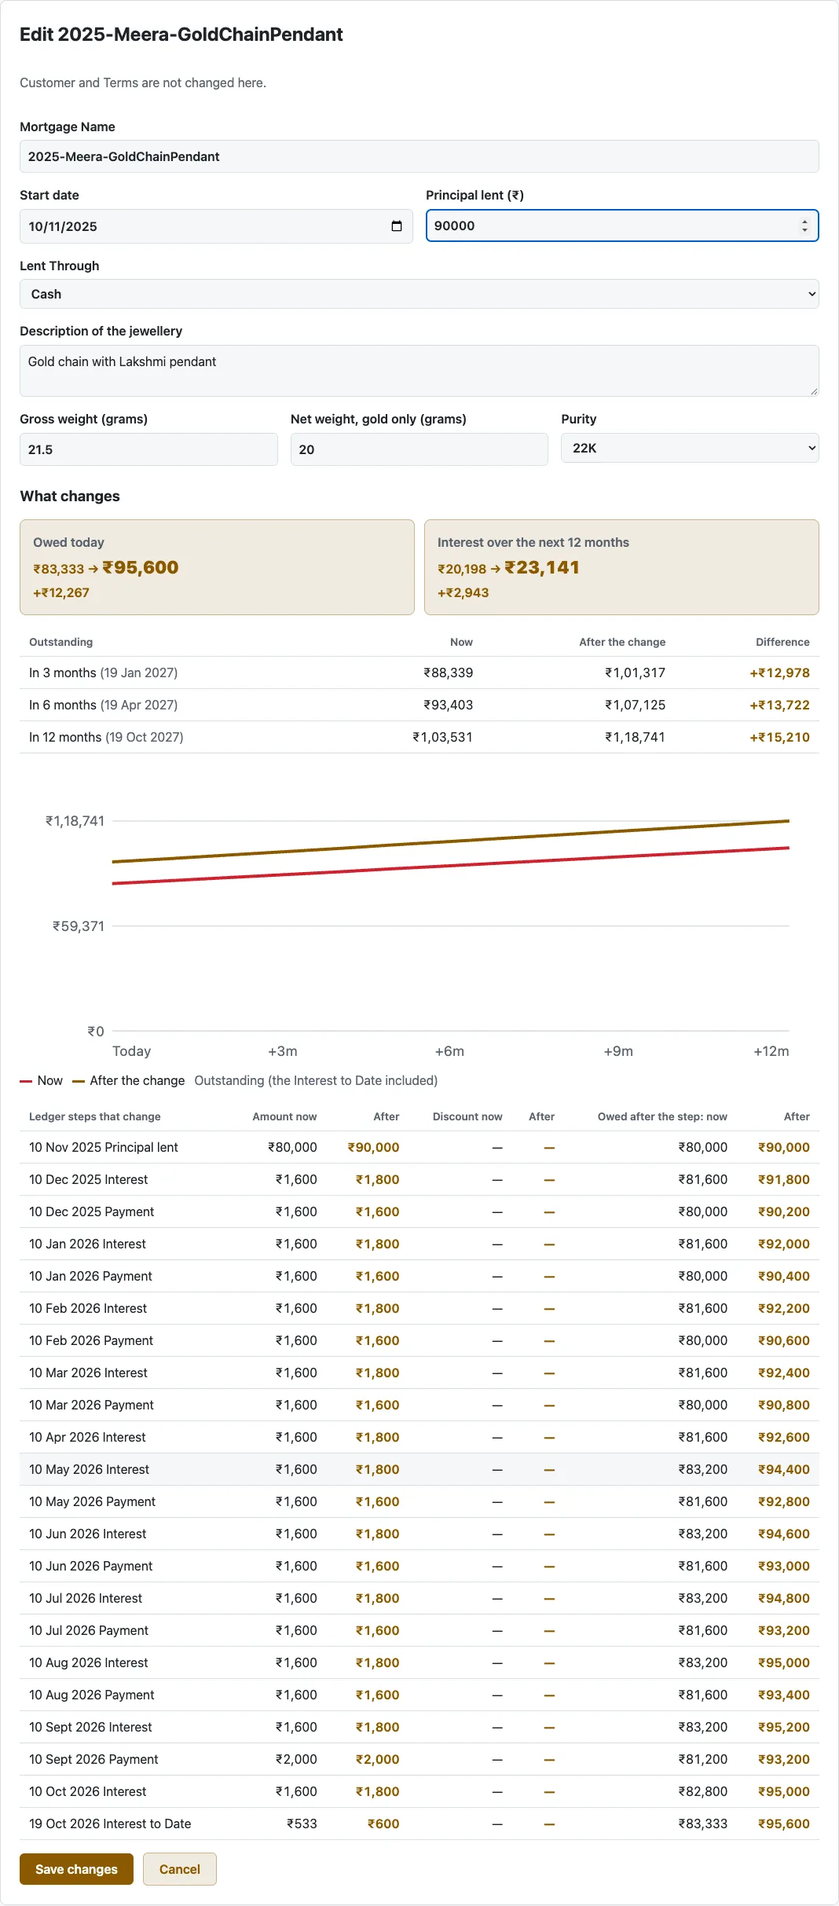
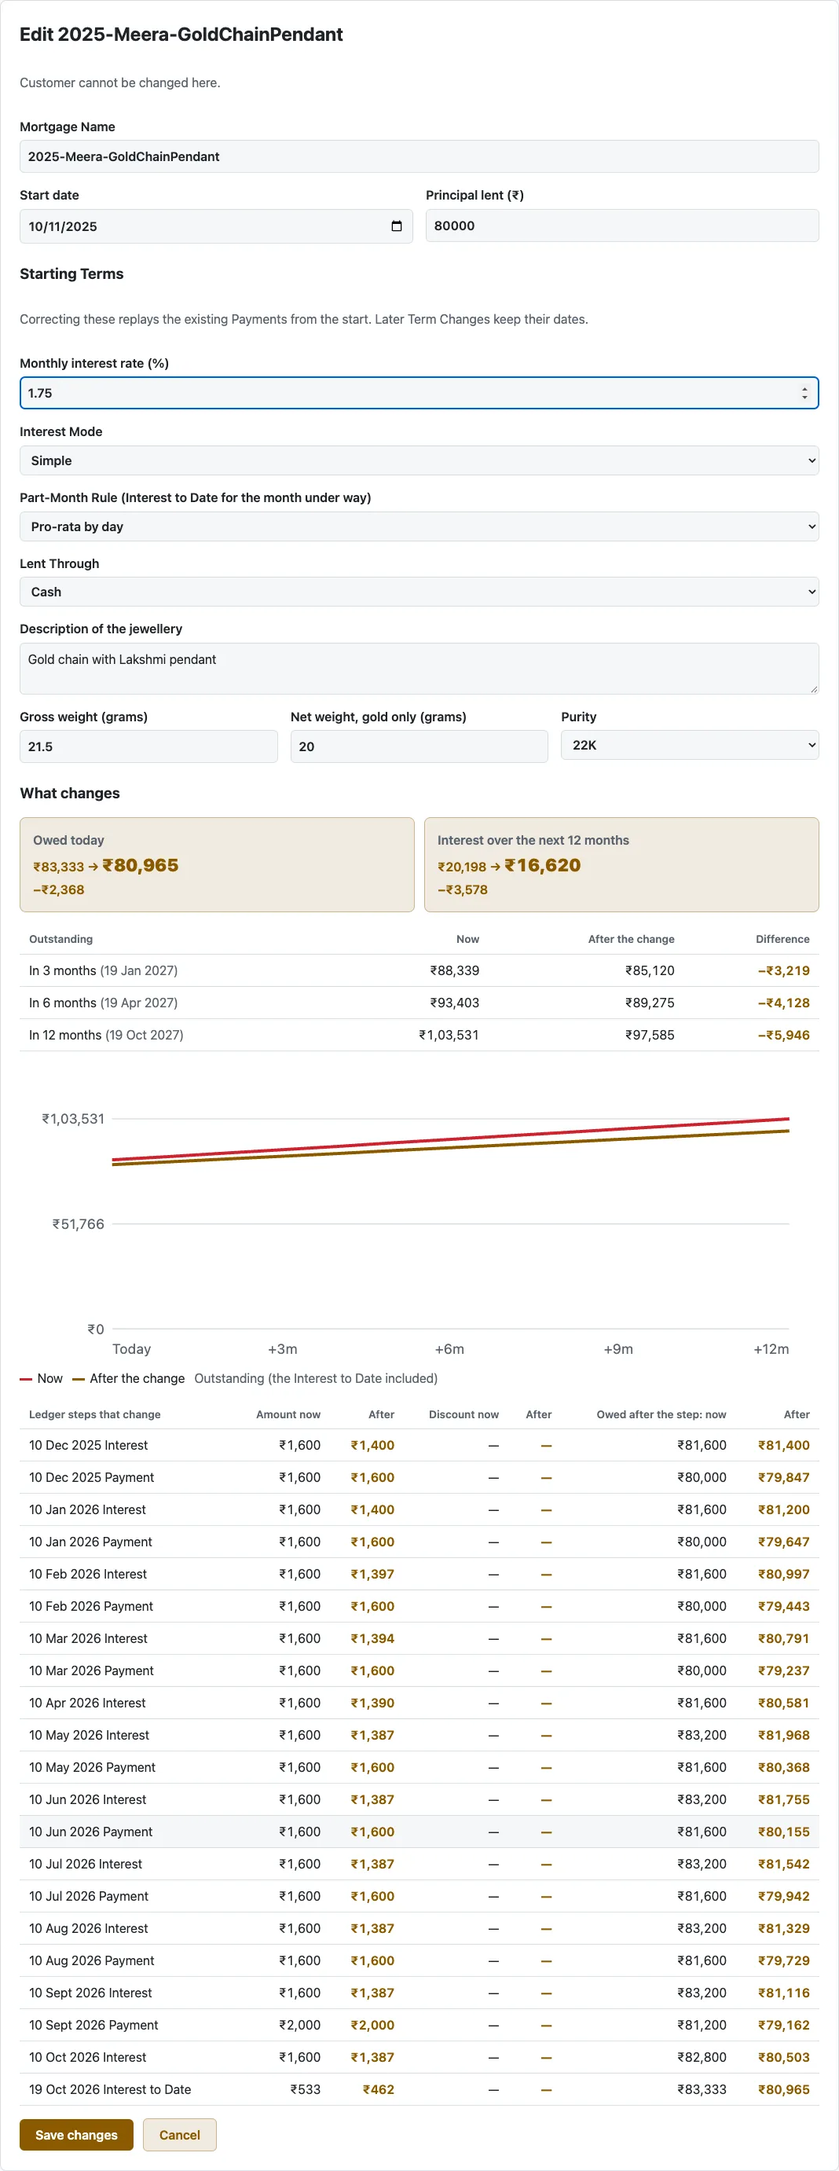
docs: explain correcting starting mortgage terms

diff --git a/docs/story.html b/docs/story.html
@@ -426,13 +426,13 @@ footer { margin-top: 3rem; font-size: 0.82rem; color: var(--muted); display: gri
 <section class="chapter" id="second" aria-labelledby="second-h">
   <div class="chapter-head"><div class="eyebrow">Chapter 5</div><h2 id="second-h">Second thoughts, with a Preview</h2></div>
   <div class="prose">
-    <p>Suppose the chain's Principal was really ₹90,000. Any change that affects money shows its effect before it is saved: what is owed today, the Outstanding in 3, 6 and 12 months, and exactly which Ledger steps would change. The Preview is the real change, made by the backend with every check a save runs, then undone, so it can never disagree with saving.</p>
+    <p>Suppose the chain's starting rate was recorded as 2% instead of 1.75%. Edit Mortgage corrects the starting Terms and replays its existing Payments. The Preview shows what is owed today, the Outstanding in 3, 6 and 12 months, and exactly which Ledger steps would change. The Preview is the real change, made by the backend with every check a save runs, then undone, so it can never disagree with saving.</p>
   </div>
   <figure class="scene" data-shot="edit-preview">
-    <div class="frame"><div class="canvas"><img src="shots/edit-preview.webp" width="1068" height="2426" alt="Editing the chain's Principal to ₹90,000: the Preview shows owed today, the Outstanding over the next year, a chart and the Ledger steps that change." loading="lazy"></div></div>
+    <div class="frame"><div class="canvas"><img src="shots/edit-preview.webp" width="1068" height="2763" alt="Correcting the chain's starting rate from 2% to 1.75%: the Preview shows the Outstanding before and after, a chart and replayed Ledger steps." loading="lazy"></div></div>
     <div class="beats-wrap">
       <ol class="beats">
-        <li data-spot="principal"><button class="beat"><span><b>₹80,000 → ₹90,000.</b> The Preview appears as you type.</span></button></li>
+        <li data-spot="startingRate"><button class="beat"><span><b>2% → 1.75%.</b> Correct a starting Term; the Preview appears as you type.</span></button></li>
         <li data-spot="owed"><button class="beat"><span><b>Owed today, before → after</b>, with the difference.</span></button></li>
         <li data-spot="ledger"><button class="beat"><span><b>Every Ledger step that changes</b>, old and new. Change the figure back and Save turns off: only real changes can be saved.</span></button></li>
       </ol>
@@ -666,7 +666,7 @@ footer { margin-top: 3rem; font-size: 0.82rem; color: var(--muted); display: gri
 </main>
 
 <script>
-const SPOTS = {"dashboard":{"w":1280,"h":860,"b":{"owed":[0.1023,0.2274,0.7953,0.0883],"ltv":[0.5063,0.7082,0.3914,0.1437],"follow":[0.1023,0.9176,0.3914,0.1437],"theme":[0.955,0.014,0.0262,0.0391],"dot":[0.7777,0.0172,0.0063,0.0093]}},"dashboard-chart":{"w":1020,"h":445,"b":{}},"dashboard-ahead":{"w":1020,"h":335,"b":{}},"dashboard-closed":{"w":1020,"h":168,"b":{}},"settings-terms":{"w":1068,"h":461,"b":{"rate":[0.0234,0.37,0.9532,0.0912]}},"settings-gold":{"w":1068,"h":554,"b":{"g22":[0.1864,0.4424,0.1837,0.0758],"updated":[0.7032,0.4271,0.2734,0.1065]}},"settings-calls":{"w":1068,"h":293,"b":{}},"settings-cash":{"w":1068,"h":317,"b":{"limit":[0.0234,0.6125,0.9532,0.1323]}},"settings-discount":{"w":1068,"h":317,"b":{}},"settings-messages":{"w":1068,"h":1116,"b":{"template":[0.0234,0.16,0.4691,0.2312],"preview":[0.5075,0.1335,0.4691,0.1998],"approve":[0.5075,0.8633,0.4691,0.0215]}},"settings-backups":{"w":1068,"h":461,"b":{"last":[0.0234,0.3399,0.9532,0.052]}},"customers":{"w":1068,"h":757,"b":{"filter":[0.0234,0.107,0.9532,0.0555],"active":[0.0234,0.1836,0.9532,0.0317],"sort":[0.1087,0.247,0.0455,0.0269],"new":[0.8341,0.033,0.1425,0.0528]}},"customer-new":{"w":828,"h":1176,"b":{"phone":[0.3249,0.2802,0.6449,0.0357],"warning":[0.3249,0.3206,0.6449,0.0204],"referrer":[0.0326,0.8606,0.9348,0.0689]}},"customer":{"w":828,"h":1103,"b":{"photo":[0.0302,0.1422,0.2657,0.1995],"shared":[0.0302,0.1059,0.9396,0.0218],"referrer":[0.3249,0.2002,0.1516,0.0218],"ids":[0.0302,0.3489,0.9396,0.0255],"mortgages":[0.0302,0.5118,0.1171,0.0255],"history":[0.0302,0.7598,0.9396,0.0255]}},"referrer":{"w":828,"h":242,"b":{}},"calculator":{"w":1068,"h":2383,"b":{"amount":[0.0356,0.525,0.2996,0.0176],"compared":[0.0375,0.5953,0.9251,0.0827],"plan":[0.0234,0.6885,0.9532,0.1409],"value":[0.0234,0.8361,0.9532,0.1047],"tiles":[0.0234,0.0625,0.9532,0.0942],"lend":[0.0234,0.1634,0.1024,0.0168],"chart":[0.0356,0.2994,0.9288,0.1838]}},"calculator-months":{"w":1018,"h":1157,"b":{}},"mortgage-new":{"w":1068,"h":1362,"b":{"active":[0.0234,0.1094,0.9532,0.0206],"lent":[0.0234,0.3669,0.4691,0.0279],"name":[0.0234,0.5746,0.9532,0.0308],"terms":[0.0253,0.6389,0.9494,0.2172],"photos":[0.0253,0.8678,0.9494,0.0727]}},"mortgage-new-confirm":{"w":520,"h":801,"b":{}},"cash-warning":{"w":520,"h":205,"b":{"anyway":[0.5431,0.6777,0.4088,0.1953]}},"mortgage":{"w":1280,"h":860,"b":{"tiles":[0.1023,0.1949,0.7953,0.1112],"pay":[0.7836,0.1376,0.1141,0.0356],"edit":[0.7333,0.1364,0.0409,0.0379]}},"mortgage-collateral":{"w":1020,"h":161,"b":{}},"mortgage-ledger":{"w":1020,"h":734,"b":{}},"mortgage-history":{"w":1020,"h":241,"b":{}},"mortgage-projection":{"w":1020,"h":837,"b":{"whatif":[0.001,0.088,0.2196,0.0502]}},"mortgage-terms":{"w":1020,"h":233,"b":{"coming":[0.0888,0.6005,0.0781,0.1397]}},"mortgage-photos":{"w":1020,"h":319,"b":{}},"edit-preview":{"w":1068,"h":2426,"b":{"principal":[0.5075,0.1097,0.4691,0.0173],"owed":[0.0234,0.2725,0.471,0.0503],"ledger":[0.0234,0.5785,0.2502,0.0152]}},"terms-preview":{"w":1068,"h":1493,"b":{"from":[0.0234,0.1197,0.9532,0.0255],"owed":[0.0234,0.4097,0.471,0.0817]}},"payment-new":{"w":1068,"h":892,"b":{"amount":[0.3461,0.174,0.3077,0.0471],"modes":[0.0412,0.326,0.1608,0.0269],"split":[0.0412,0.3709,0.9176,0.1742],"owed":[0.4074,0.3709,0.2577,0.0414],"full":[0.3461,0.2274,0.2473,0.0359],"preview":[0.0234,0.797,0.9532,0.0315]}},"payment-refused":{"w":1018,"h":632,"b":{"refusal":[0,0.8355,1,0.038],"save":[0,0.9241,0.2623,0.0633]}},"payment":{"w":1068,"h":940,"b":{"alloc":[0.0225,0.2351,0.9551,0.1867],"receipt":[0.0225,0.4345,0.9551,0.5485],"void":[0.9126,0.0284,0.064,0.0347]}},"receipt":{"w":1068,"h":545,"b":{}},"payment-void":{"w":900,"h":774,"b":{}},"payments":{"w":1068,"h":1389,"b":{"voided":[0.85,0.3063,0.0524,0.0155]}},"call-list":{"w":1068,"h":627,"b":{"customer":[0.0234,0.6452,0.2397,0.2366],"count":[0.0346,0.7129,0.0861,0.0287],"reach":[0.0346,0.7566,0.2168,0.052],"why":[0.5127,0.7841,0.1446,0.0356],"legend":[0.6176,0.4927,0.359,0.0407],"called":[0.8065,0.7355,0.1588,0.1327],"mark":[0.8065,0.6596,0.1072,0.0488],"sheet":[0.0234,0.2377,0.1189,0.052],"chat":[0.1659,0.7566,0.0309,0.052]}},"mortgages-customer":{"w":1068,"h":454,"b":{"note":[0.0234,0.3017,0.9532,0.0718]}},"call-sheet-import":{"w":960,"h":466,"b":{}},"closures":{"w":1068,"h":840,"b":{"dormant":[0.7522,0.3219,0.0856,0.0364],"choose":[0.0384,0.6839,0.0122,0.0155]}},"redeem":{"w":1018,"h":1233,"b":{"date":[0.0167,0.0772,0.9666,0.0357],"amount":[0.0167,0.2139,0.1729,0.0389]}},"waive":{"w":1018,"h":1479,"b":{}},"closures-waive":{"w":1068,"h":1122,"b":{}},"redeemed":{"w":1018,"h":123,"b":{}},"forfeited":{"w":1018,"h":285,"b":{}},"waived":{"w":1018,"h":285,"b":{}},"start-screen":{"w":860,"h":226,"b":{"start":[0.0291,0.7124,0.3007,0.177]}},"update-banner":{"w":1068,"h":204,"b":{}},"notices":{"w":1068,"h":374,"b":{"tabs":[0.0234,0.4631,0.9532,0.0642],"row":[0.0234,0.6689,0.9532,0.1328]}},"notice":{"w":640,"h":432,"b":{"approve":[0.799,0.8473,0.1619,0.0926]}},"notices-send":{"w":1068,"h":374,"b":{"send":[0.8281,0.6943,0.074,0.0819]}},"payment-redeem":{"w":520,"h":359,"b":{}},"receipt-redeemed":{"w":1068,"h":463,"b":{}}}
+const SPOTS = {"dashboard":{"w":1280,"h":860,"b":{"owed":[0.1023,0.2274,0.7953,0.0883],"ltv":[0.5063,0.7082,0.3914,0.1437],"follow":[0.1023,0.9176,0.3914,0.1437],"theme":[0.955,0.014,0.0262,0.0391],"dot":[0.7777,0.0172,0.0063,0.0093]}},"dashboard-chart":{"w":1020,"h":445,"b":{}},"dashboard-ahead":{"w":1020,"h":335,"b":{}},"dashboard-closed":{"w":1020,"h":168,"b":{}},"settings-terms":{"w":1068,"h":461,"b":{"rate":[0.0234,0.37,0.9532,0.0912]}},"settings-gold":{"w":1068,"h":554,"b":{"g22":[0.1864,0.4424,0.1837,0.0758],"updated":[0.7032,0.4271,0.2734,0.1065]}},"settings-calls":{"w":1068,"h":293,"b":{}},"settings-cash":{"w":1068,"h":317,"b":{"limit":[0.0234,0.6125,0.9532,0.1323]}},"settings-discount":{"w":1068,"h":317,"b":{}},"settings-messages":{"w":1068,"h":1116,"b":{"template":[0.0234,0.16,0.4691,0.2312],"preview":[0.5075,0.1335,0.4691,0.1998],"approve":[0.5075,0.8633,0.4691,0.0215]}},"settings-backups":{"w":1068,"h":461,"b":{"last":[0.0234,0.3399,0.9532,0.052]}},"customers":{"w":1068,"h":757,"b":{"filter":[0.0234,0.107,0.9532,0.0555],"active":[0.0234,0.1836,0.9532,0.0317],"sort":[0.1087,0.247,0.0455,0.0269],"new":[0.8341,0.033,0.1425,0.0528]}},"customer-new":{"w":828,"h":1176,"b":{"phone":[0.3249,0.2802,0.6449,0.0357],"warning":[0.3249,0.3206,0.6449,0.0204],"referrer":[0.0326,0.8606,0.9348,0.0689]}},"customer":{"w":828,"h":1103,"b":{"photo":[0.0302,0.1422,0.2657,0.1995],"shared":[0.0302,0.1059,0.9396,0.0218],"referrer":[0.3249,0.2002,0.1516,0.0218],"ids":[0.0302,0.3489,0.9396,0.0255],"mortgages":[0.0302,0.5118,0.1171,0.0255],"history":[0.0302,0.7598,0.9396,0.0255]}},"referrer":{"w":828,"h":242,"b":{}},"calculator":{"w":1068,"h":2383,"b":{"amount":[0.0356,0.525,0.2996,0.0176],"compared":[0.0375,0.5953,0.9251,0.0827],"plan":[0.0234,0.6885,0.9532,0.1409],"value":[0.0234,0.8361,0.9532,0.1047],"tiles":[0.0234,0.0625,0.9532,0.0942],"lend":[0.0234,0.1634,0.1024,0.0168],"chart":[0.0356,0.2994,0.9288,0.1838]}},"calculator-months":{"w":1018,"h":1157,"b":{}},"mortgage-new":{"w":1068,"h":1362,"b":{"active":[0.0234,0.1094,0.9532,0.0206],"lent":[0.0234,0.3669,0.4691,0.0279],"name":[0.0234,0.5746,0.9532,0.0308],"terms":[0.0253,0.6389,0.9494,0.2172],"photos":[0.0253,0.8678,0.9494,0.0727]}},"mortgage-new-confirm":{"w":520,"h":801,"b":{}},"cash-warning":{"w":520,"h":205,"b":{"anyway":[0.5431,0.6777,0.4088,0.1953]}},"mortgage":{"w":1280,"h":860,"b":{"tiles":[0.1023,0.1949,0.7953,0.1112],"pay":[0.7836,0.1376,0.1141,0.0356],"edit":[0.7333,0.1364,0.0409,0.0379]}},"mortgage-collateral":{"w":1020,"h":161,"b":{}},"mortgage-ledger":{"w":1020,"h":734,"b":{}},"mortgage-history":{"w":1020,"h":241,"b":{}},"mortgage-projection":{"w":1020,"h":837,"b":{"whatif":[0.001,0.088,0.2196,0.0502]}},"mortgage-terms":{"w":1020,"h":233,"b":{"coming":[0.0888,0.6005,0.0781,0.1397]}},"mortgage-photos":{"w":1020,"h":319,"b":{}},"edit-preview":{"w":1068,"h":2763,"b":{"startingRate":[0.0234,0.1736,0.9532,0.0152],"interestMode":[0.0234,0.2053,0.9532,0.0138],"partMonthRule":[0.0234,0.2356,0.9532,0.0138],"owed":[0.0234,0.3763,0.471,0.0441],"ledger":[0.0234,0.6449,0.2531,0.0133]}},"terms-preview":{"w":1068,"h":1493,"b":{"from":[0.0234,0.1197,0.9532,0.0255],"owed":[0.0234,0.4097,0.471,0.0817]}},"payment-new":{"w":1068,"h":892,"b":{"amount":[0.3461,0.174,0.3077,0.0471],"modes":[0.0412,0.326,0.1608,0.0269],"split":[0.0412,0.3709,0.9176,0.1742],"owed":[0.4074,0.3709,0.2577,0.0414],"full":[0.3461,0.2274,0.2473,0.0359],"preview":[0.0234,0.797,0.9532,0.0315]}},"payment-refused":{"w":1018,"h":632,"b":{"refusal":[0,0.8355,1,0.038],"save":[0,0.9241,0.2623,0.0633]}},"payment":{"w":1068,"h":940,"b":{"alloc":[0.0225,0.2351,0.9551,0.1867],"receipt":[0.0225,0.4345,0.9551,0.5485],"void":[0.9126,0.0284,0.064,0.0347]}},"receipt":{"w":1068,"h":545,"b":{}},"payment-void":{"w":900,"h":774,"b":{}},"payments":{"w":1068,"h":1389,"b":{"voided":[0.85,0.3063,0.0524,0.0155]}},"call-list":{"w":1068,"h":627,"b":{"customer":[0.0234,0.6452,0.2397,0.2366],"count":[0.0346,0.7129,0.0861,0.0287],"reach":[0.0346,0.7566,0.2168,0.052],"why":[0.5127,0.7841,0.1446,0.0356],"legend":[0.6176,0.4927,0.359,0.0407],"called":[0.8065,0.7355,0.1588,0.1327],"mark":[0.8065,0.6596,0.1072,0.0488],"sheet":[0.0234,0.2377,0.1189,0.052],"chat":[0.1659,0.7566,0.0309,0.052]}},"mortgages-customer":{"w":1068,"h":454,"b":{"note":[0.0234,0.3017,0.9532,0.0718]}},"call-sheet-import":{"w":960,"h":466,"b":{}},"closures":{"w":1068,"h":840,"b":{"dormant":[0.7522,0.3219,0.0856,0.0364],"choose":[0.0384,0.6839,0.0122,0.0155]}},"redeem":{"w":1018,"h":1233,"b":{"date":[0.0167,0.0772,0.9666,0.0357],"amount":[0.0167,0.2139,0.1729,0.0389]}},"waive":{"w":1018,"h":1479,"b":{}},"closures-waive":{"w":1068,"h":1122,"b":{}},"redeemed":{"w":1018,"h":123,"b":{}},"forfeited":{"w":1018,"h":285,"b":{}},"waived":{"w":1018,"h":285,"b":{}},"start-screen":{"w":860,"h":226,"b":{"start":[0.0291,0.7124,0.3007,0.177]}},"update-banner":{"w":1068,"h":204,"b":{}},"notices":{"w":1068,"h":374,"b":{"tabs":[0.0234,0.4631,0.9532,0.0642],"row":[0.0234,0.6689,0.9532,0.1328]}},"notice":{"w":640,"h":432,"b":{"approve":[0.799,0.8473,0.1619,0.0926]}},"notices-send":{"w":1068,"h":374,"b":{"send":[0.8281,0.6943,0.074,0.0819]}},"payment-redeem":{"w":520,"h":359,"b":{}},"receipt-redeemed":{"w":1068,"h":463,"b":{}}}
 
 // Scenes: numbered markers on each screenshot, stepped through by click or ← →.
 for (const scene of document.querySelectorAll('figure.scene')) {

diff --git a/docs/onboarding/006-changes-and-previews/02-the-check.html b/docs/onboarding/006-changes-and-previews/02-the-check.html
@@ -16,6 +16,11 @@
 
 <h2>The problem</h2>
 <p>Meera's chain was lent at ₹80,000 on 10 Nov 2025. Suppose the Lender opens the chain's Edit page and, by mistake, types ₹1,000 as the Principal. On its own, ₹1,000 is a perfectly good number. The trouble is the facts already stored around it: Meera paid ₹1,600 on 10 Dec 2025. On a ₹1,000 Mortgage, she could never have owed that much. Saving the edit would leave a Payment that pays more than everything owed, and the engine can't give a Ledger for that.</p>
+<h3>Correcting the starting Terms</h3>
+<p>The same Edit Mortgage page can correct the starting rate, Interest Mode and Part-Month Rule. These are the Terms the Mortgage began with. Choose them under <strong>Starting Terms</strong>; the form's Preview shows what replaying the Mortgage from its start would change.</p>
+<p>Every existing Payment stays attached to the Mortgage and is replayed on its original date under the corrected starting Terms. Later Term Changes keep their dates and still take effect from those dates. This is a correction to the original facts, not a new agreement from today. If the Customer agreed to different Terms from a particular Accrual Date onward, use a dated Term Change instead; that leaves the past months under their original Terms.</p>
+<p>Read <strong>Owed today</strong> in the Preview before and after. The Ledger table shows which past steps changed, including Payments. A correction is refused if replay reaches a Payment larger than the Outstanding owed on that Payment's date. For example, lowering the chain's Principal to ₹1,000 makes its ₹1,600 Payment on 10 Dec 2025 larger than the ₹1,021 then owed, so both Preview and Save are refused. The same check protects a starting-Term correction.</p>
+<figure class="screenshot"><img src="../../shots/edit-preview.webp" alt="Edit Mortgage with Starting Terms and a Preview comparing Outstanding before and after, including Ledger steps" loading="lazy"><figcaption>On Edit Mortgage, correct Starting Terms and read the before-and-after Outstanding and changed Ledger steps before saving.</figcaption></figure>
 <p>How would you check for it? You could try to write a rule for each kind of edit: "the Principal can't go below…" what, exactly? It depends on every Payment, every month's interest, every Term Change and every Capitalisation since. The only thing that knows is the engine itself.</p>
 
 <h2>The idea</h2>

diff --git a/docs/onboarding/reference/glossary.html b/docs/onboarding/reference/glossary.html
@@ -61,9 +61,9 @@
   <span class="avoid">Avoid: Pledge number, mortgage ID</span>
   <span class="taught">Taught in <a href="../001-what-the-app-does/01-a-pledge.html">001 · Lesson 1</a></span></dd>
 <dt id="terms">Terms</dt>
-<dd>A Mortgage&#x27;s rate, Interest Mode and Part-Month Rule: set when it is created, and changed only by a Term Change; each month is charged under the Terms in force when it starts.
+<dd>A Mortgage&#x27;s rate, Interest Mode and Part-Month Rule, set when it is created. Its starting Terms can be corrected by editing the Mortgage, replaying existing Payments; a Term Change applies new Terms from its dated Accrual Date onward.
   <span class="taught">Taught in <a href="../001-what-the-app-does/01-a-pledge.html">001 · Lesson 1</a></span>
-  <span class="taught">In the code: <a href="../004-the-ledger-engine/02-one-months-interest.html">004 · Lesson 2</a></span></dd>
+  <span class="taught">In the code: <a href="../004-the-ledger-engine/02-one-months-interest.html">004 · Lesson 2</a>, <a href="../006-changes-and-previews/02-the-check.html">006 · Lesson 2</a></span></dd>
 <dt id="default-terms">Default Terms</dt>
 <dd>The Terms the Lender has set to be copied into every new Mortgage.
   <span class="avoid">Avoid: Global rate, settings</span>
@@ -75,7 +75,7 @@
   <span class="taught">Taught in <a href="../001-what-the-app-does/01-a-pledge.html">001 · Lesson 1</a></span>
   <span class="taught">In the code: <a href="../007-payments-and-receipts/04-the-cash-limit.html">007 · Lesson 4</a></span></dd>
 <dt id="term-change">Term Change</dt>
-<dd>A dated change to some of a Mortgage&#x27;s Terms, starting on an Accrual Date and applying to the months from then on; it never rewrites earlier interest.
+<dd>A dated change to some of a Mortgage&#x27;s Terms, starting on an Accrual Date and applying to the months from then on; it keeps earlier interest under its prior Terms. Correct the Mortgage&#x27;s starting Terms by editing the Mortgage, which replays its existing Payments.
   <span class="avoid">Avoid: Rate edit, amendment</span>
   <span class="taught">Taught in <a href="../001-what-the-app-does/03-paying-it-back.html">001 · Lesson 3</a></span>
   <span class="taught">In the code: <a href="../004-the-ledger-engine/05-term-changes-and-projections.html">004 · Lesson 5</a>, <a href="../016-your-first-change/01-from-an-idea-to-an-issue.html">016 · Lesson 1</a></span>

diff --git a/docs/onboarding/001-what-the-app-does/01-a-pledge.html b/docs/onboarding/001-what-the-app-does/01-a-pledge.html
@@ -51,7 +51,7 @@ flowchart LR
   <li>How the Principal was handed over, its <a href="../reference/glossary.html#lent-through"><dfn class="term" title="How a Mortgage's Principal was handed to the Customer: Cash, UPI or bank transfer.">Lent Through</dfn></a>: cash, UPI (India's instant phone-to-phone bank payments) or bank transfer.</li>
   <li>The jewellery: a description such as "Gold chain with Lakshmi pendant", its weights in grams, and its purity in karats (24K is pure gold, 22K is the usual jewellery gold).</li>
   <li>A <a href="../reference/glossary.html#mortgage-name"><dfn class="term" title="A human-readable label for a Mortgage, beginning with the year it started.">Mortgage Name</dfn></a>: a readable label beginning with the year it started, such as <code>2025-Meera-GoldChainPendant</code>. The app suggests one; the Lender can type their own.</li>
-  <li>Its <a href="../reference/glossary.html#terms"><dfn class="term" title="A Mortgage's rate, Interest Mode and Part-Month Rule: set when it is created, and changed only by a Term Change; each month is charged under the Terms in force when it starts.">Terms</dfn></a>: the rate, the Interest Mode and the Part-Month Rule. For now, read them as "the rules for how interest grows"; lesson 2 explains each part.</li>
+  <li>Its <a href="../reference/glossary.html#terms"><dfn class="term" title="A Mortgage's rate, Interest Mode and Part-Month Rule, set when it is created. Starting Terms can be corrected by editing the Mortgage; a Term Change applies new Terms from its dated Accrual Date onward.">Terms</dfn></a>: the rate, the Interest Mode and the Part-Month Rule. For now, read them as "the rules for how interest grows"; lesson 2 explains each part. If the starting Terms were recorded incorrectly, the Lender can correct them in Edit Mortgage; a Term Change records a later dated change.</li>
 </ul>
 <p>Where do the Terms come from? The Lender sets <a href="../reference/glossary.html#default-terms"><dfn class="term" title="The Terms the Lender has set to be copied into every new Mortgage.">Default Terms</dfn></a> once in Settings, and they are copied into every new Mortgage. The Lender can change them for one Mortgage while creating it. Copying matters: when the Lender later changes the Default Terms, existing Mortgages keep the Terms they were given.</p>
 

diff --git a/docs/onboarding/006-changes-and-previews/index.html b/docs/onboarding/006-changes-and-previews/index.html
@@ -61,7 +61,7 @@ flowchart LR
 <h2>Lessons</h2>
 <ol class="lessons-list">
   <li><a href="01-one-door-for-every-change.html">One door for every change</a><span class="sum">The four steps, the bangles' Term Change, and the two refusals you can provoke: 422 and 409.</span></li>
-  <li><a href="02-the-check.html">The check: replay, then refuse</a><span class="sum">Lower Meera's chain to ₹1,000 and watch the replay refuse it, naming a Payment from last December.</span></li>
+  <li><a href="02-the-check.html">The check: replay, then refuse</a><span class="sum">Correct starting Terms or lower Meera's chain to ₹1,000, then watch the replay and Preview explain what changed or refuse an impossible Payment.</span></li>
   <li><a href="03-history.html">History</a><span class="sum">What each change records: the chain's description edit, the Voided ₹16,000, and a Term Change that stores only the rate.</span></li>
   <li><a href="04-previews.html">Previews: make it, then roll it back</a><span class="sum">Remove the bangles' coming Term Change, then pay off the chain, both without saving anything.</span></li>
   <li><a href="05-adding-a-change-route.html">Adding a change route</a><span class="sum">Collateral Value, the smallest complete example, as a checklist. Then sketch a change of your own on paper.</span></li>

diff --git a/docs/index.html b/docs/index.html
@@ -338,7 +338,7 @@ footer { margin-top: 1.5rem; font-size: 0.82rem; color: var(--muted); }
     </article>
 
     <article class="feature" style="--tone: var(--accent)">
-      <img src="shots/edit-preview.webp" width="1068" height="2426" alt="Editing a Mortgage's Principal: the Preview shows owed today, the Outstanding over the next year, a chart and the Ledger steps that change." loading="lazy">
+      <img src="shots/edit-preview.webp" width="1068" height="2763" alt="Correcting a Mortgage's starting rate: the Preview shows owed today, the Outstanding over the next year, a chart and replayed Ledger steps." loading="lazy">
       <div class="feature-body">
         <h3>Previews and Term Changes</h3>
         <p>Any change that affects money shows what it would do before it is saved, or says why it isn't allowed.</p>

diff --git a/docs/onboarding/SYLLABUS.md b/docs/onboarding/SYLLABUS.md
@@ -61,7 +61,7 @@ Each chapter assumes only the chapters before it. The order was agreed in [Decid
 
 ### 006 Changes and Previews (written)
 1. One door for every change ([#153](https://github.com/krucx/Mortgage-Management-App/issues/153))
-2. The check: replay, then refuse ([#154](https://github.com/krucx/Mortgage-Management-App/issues/154))
+2. The check: replay, then refuse ([#154](https://github.com/krucx/Mortgage-Management-App/issues/154)): correct starting Terms and see existing Payments replay, distinct from a dated Term Change
 3. History ([#155](https://github.com/krucx/Mortgage-Management-App/issues/155))
 4. Previews: make it, then roll it back ([#156](https://github.com/krucx/Mortgage-Management-App/issues/156))
 5. Adding a change route ([#157](https://github.com/krucx/Mortgage-Management-App/issues/157))
